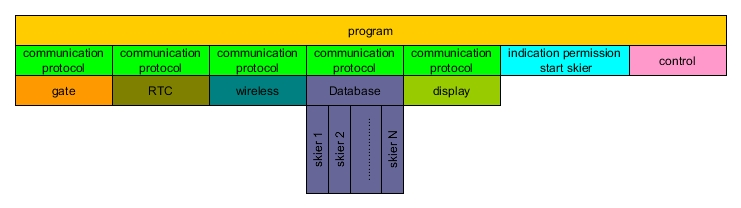
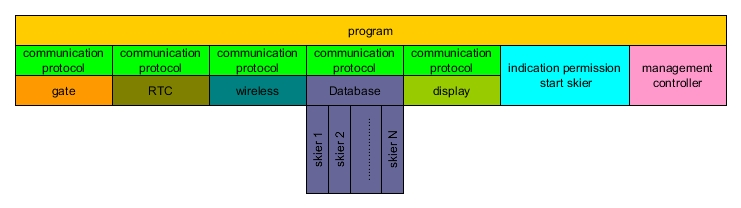
added to the main file start and finish

Changed region(s): [[0.6518, 0.2308, 0.9933, 0.5192]]

diff --git a/vesion 2/fw/start/sandbox/main.c b/vesion 2/fw/start/sandbox/main.c
@@ -1,0 +1,22 @@
+
+int main(void)
+{
+	/**/
+	bool controlStartPermissionSkier(void);
+	
+	/**/
+	void indicationStartAllowed(void);
+	
+	/**/
+	void displayIndicationStartAllowed(void);
+	
+	/*returns the next empty memory cell */
+	int writeRealTimeSkier(uint16_t numberSkier);
+	
+	/**/
+	bool syncDataWithFinish(struct SKIERRESULT *skierTime);
+	
+	/**/
+	int readCommandcontrolPanel(void);
+	
+}

diff --git a/vesion 2/fw/finish/sandbox/main.c b/vesion 2/fw/finish/sandbox/main.c
@@ -1,0 +1,19 @@
+
+int main(void)
+{
+	/**/
+	bool controlStartPermissionSkier(void);
+	
+	/**/
+	void indicationStartAllowed(void);
+	
+	/*returns the next empty memory cell */
+	int writeRealTimeFinishSkier(uint16_t numberSkier);
+	
+	/**/
+	bool syncDataWithStart(struct SKIERRESULT *skierTime);
+	
+	/**/
+	int readCommandcontrolPanel(void);
+	
+}
